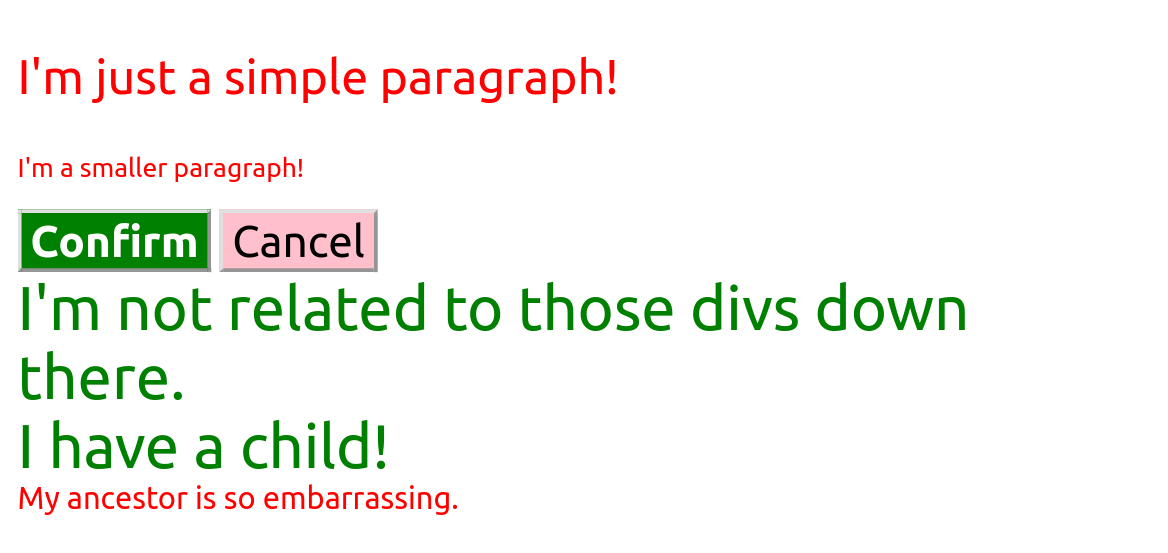
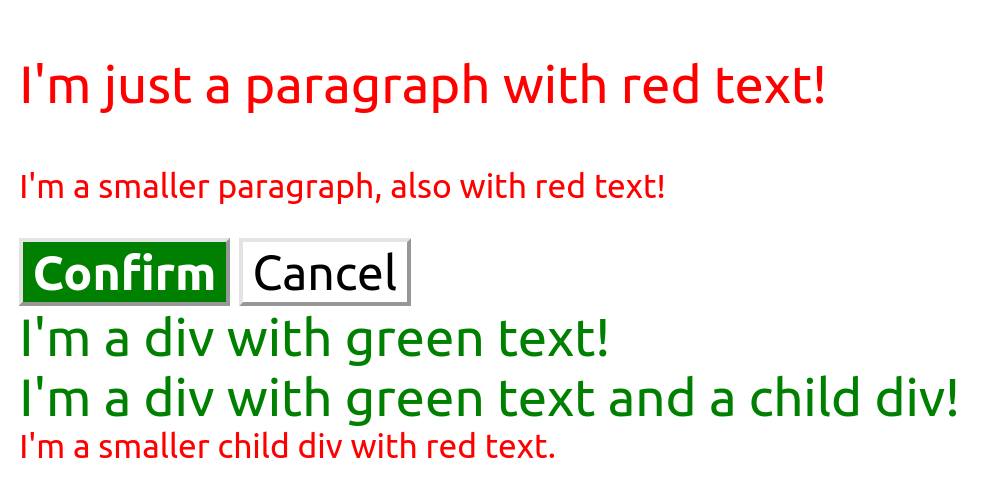
Fix issue for users with color blindness

Changed region(s): [[0.0, 0.2711, 0.8528, 0.753], [0.0, 0.753, 0.9746, 0.9337], [0.0, 0.0904, 0.8528, 0.241]]

diff --git a/css-exercises/foundations/06-cascade-fix/solution/solution.css b/css-exercises/foundations/06-cascade-fix/solution/solution.css
@@ -8,14 +8,14 @@
 }
 
 .button {
-  background-color: #ffc0cb;
-  color: black;
+  background-color: rgb(255, 255, 255);
+  color: rgb(0, 0, 0);
   font-size: 20px;
 }
 
 div.text {
   color: green;
-  font-size: 28px;
+  font-size: 22px;
 }
 
 /* SOLUTION */
@@ -24,7 +24,7 @@ div.text {
   For the following rule, we removed it from its original position in the file:
 
   .small-para {
-    font-size: 12px;
+    font-size: 14px;
   } 
 
   Then we placed it after the .para selector, taking advantage of the rule order since both selectors have the same specificity. 
@@ -37,7 +37,7 @@ div.text {
 */
 
 .small-para {
-  font-size: 12px;
+  font-size: 14px;
 }
 
 /* 
@@ -46,7 +46,6 @@ div.text {
   .confirm {
     background: green;
     color: white;
-    font-size: 20px;
     font-weight: bold;
   } 
 
@@ -57,7 +56,6 @@ div.text {
   .button.confirm {
     background: green;
     color: white;
-    font-size: 20px;
     font-weight: bold;
   }
 */
@@ -65,7 +63,6 @@ div.text {
 #confirm-button {
   background: green;
   color: white;
-  font-size: 20px;
   font-weight: bold;
 }
 

diff --git a/css-exercises/foundations/06-cascade-fix/solution/solution.html b/css-exercises/foundations/06-cascade-fix/solution/solution.html
@@ -8,15 +8,15 @@
   <link rel="stylesheet" href="solution.css">
 </head>
 <body>
-  <p class="para">I'm just a simple paragraph!</p>
-  <p class="para small-para">I'm a smaller paragraph!</p>
+  <p class="para">I'm just a paragraph with red text!</p>
+  <p class="para small-para">I'm a smaller paragraph, also with red text!</p>
 
   <button id="confirm-button" class="button confirm">Confirm</button>
   <button id="cancel-button" class="button cancel">Cancel</button>
 
-  <div class="text">I'm not related to those divs down there.</div>
-  <div class="text">I have a child!
-    <div class="text child">My ancestor is so embarrassing.</div>
+  <div class="text">I'm a div with green text!</div>
+  <div class="text">I'm a div with green text and a child div!
+    <div class="text child">I'm a smaller child div with red text.</div>
   </div>
 </body>
 </html>

diff --git a/css-exercises/foundations/06-cascade-fix/index.html b/css-exercises/foundations/06-cascade-fix/index.html
@@ -8,15 +8,15 @@
   <link rel="stylesheet" href="style.css">
 </head>
 <body>
-  <p class="para">I'm just a simple paragraph!</p>
-  <p class="para small-para">I'm a smaller paragraph!</p>
+  <p class="para">I'm just a paragraph with red text!</p>
+  <p class="para small-para">I'm a smaller paragraph, also with red text!</p>
 
   <button id="confirm-button" class="button confirm">Confirm</button>
   <button id="cancel-button" class="button cancel">Cancel</button>
 
-  <div class="text">I'm not related to those divs down there.</div>
-  <div class="text">I have a child!
-    <div class="text child">My ancestor is so embarrassing.</div>
+  <div class="text">I'm a div with green text!</div>
+  <div class="text">I'm a div with green text and a child div!
+    <div class="text child">I'm a smaller child div with red text.</div>
   </div>
 </body>
 </html>

diff --git a/css-exercises/foundations/06-cascade-fix/style.css b/css-exercises/foundations/06-cascade-fix/style.css
@@ -4,7 +4,7 @@
 }
 
 .small-para {
-  font-size: 12px;
+  font-size: 14px;
 }
 
 .para {
@@ -14,13 +14,12 @@
 .confirm {
   background: green;
   color: white;
-  font-size: 20px;
   font-weight: bold;
 } 
 
 .button {
-  background-color: #ffc0cb;
-  color: black;
+  background-color: rgb(255, 255, 255);
+  color: rgb(0, 0, 0);
   font-size: 20px;
 }
 
@@ -31,5 +30,5 @@
 
 div.text {
   color: green;
-  font-size: 28px;
+  font-size: 22px;
 }

diff --git a/css-exercises/foundations/06-cascade-fix/README.md b/css-exercises/foundations/06-cascade-fix/README.md
@@ -1,7 +1,7 @@
 # CSS Methods
 This final exercise for CSS Foundations is going to give you a closer look at the cascade, in particular specificity and rule order. Both the HTML and CSS files are filled out for you, so instead of adding rules yourself, you will simply be editing what is provided.
 
-There are a few elements that have some sort of specificity or rule order issue in the provided CSS file. It's up to you to figure out what issue is affecting an element, and how to fix it. You can edit the CSS file by adding or removing selectors or moving stuff around, but you should not edit the HTML file or any of the actual style declarations in the CSS.
+There are a few elements that have some sort of specificity or rule order issue in the provided CSS file. It's up to you to figure out what issue is affecting an element, and how to fix it. You can edit the CSS file by adding, removing, or editing selectors for a declaration block, or by moving declaration blocks around. **You should not edit the HTML file or any of the actual styles in the CSS**.
 
 There are multiple ways to solve this exercise, and we did our best to include all of the possible solutions for each element.
 
